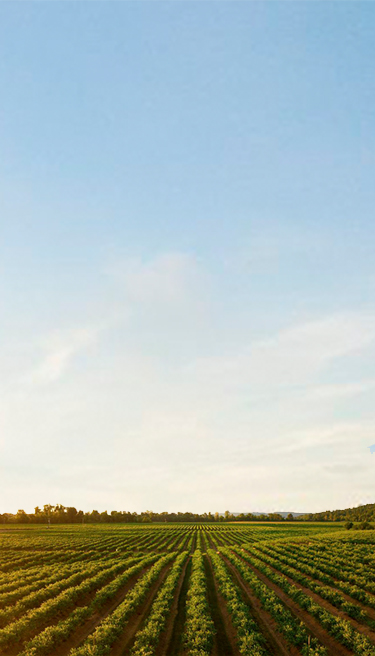
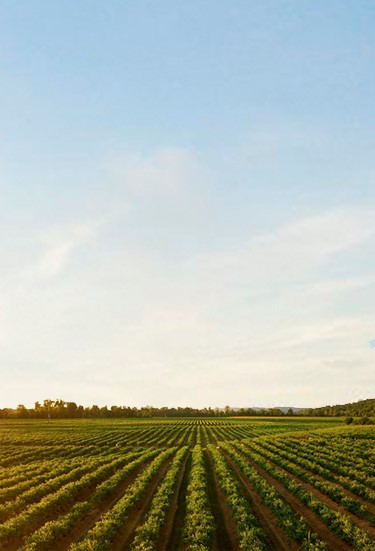
Modificado la flecha de ir Ariba/Abajo

diff --git a/css/style.css b/css/style.css
@@ -104,51 +104,98 @@ div {
     transform: scale(1.06);
 }
 
-/*--------------------------------------------------------------*/
-/*------------------ Botón de Ir Arriba/Abajo ------------------*/
+/*-------------------------------------------------------------------------------------------------------------------*/
+/*-------------------------------------------- Botón de Ir Arriba/Abajo ---------------------------------------------*/
+
 
 #boton_ir_arriba {
     display: none;
     position: fixed;
-    bottom: 20px;
     right: 30px;
+    bottom: 2rem;
     z-index: 99;
-    font-size: 16px;
-    border: none;
+    font-size: 2rem;
+    background-color: rgba(255,255,255,0.9);
+    border:  none;
     outline: none;
-    background-color: #830053;
-    color: white;
+    color: var(--color_principal);
     cursor: pointer;
-    padding: 15px;
+    padding: 7px 20px;
     border-radius: 50px;
 }
+
 #boton_abajo{
     position: fixed;
-    bottom: 20px;
-    right: 30px;
+    left: 45%;
+    bottom: 2rem;
     z-index: 99;
-    font-size: 16px;
+    font-size: 2rem;
+    background-color: var(--color_blanco);
     border: none;
     outline: none;
-    background-color: #830053;
-    color: white;
+    color: var(--color_principal);
     cursor: pointer;
-    padding: 15px;
+    padding: 7px 20px;
     border-radius: 50px;
+
 }
 
-/*--------------------------------------------------------------*/
-/*-------------------------------------------------------------------------------------------------------------------*/
-/*                                   HEADER                                            */
-/*-------------------------------------------------------------------------------------------------------------------*/
+.fa-angle-down{
+    animation: flecha-animada 2s ease-in-out infinite;
+}
 
+.fa-angle-up{
+    animation: flecha-animada 2s ease-in-out infinite;
+}
+
+/*-------------------------------------------------------------------------------*/
+/*-------------------------------ANIMACIÓN FLECHA-------------------------------*/
+
+@keyframes flecha-animada {
+    from{
+        transform: translateY(0);
+        opacity: 1;
+    }
+    50%{
+        transform: translateY(8px);
+        opacity: 0;
+    }
+    to{
+        transform: translateY(0);
+        opacity: 1;
+    }
+}
+
+/*----------------------------------------------------------------------------------------*/
+/*-------------------------------MEDIA QUERY - ARRIBA/ABAJO-------------------------------*/
+
+/*Esto es para hacer que el botón de ir abajo se quede en el
+        centro cuando el ancho de pantalla cambia*/
+
+@media (max-width: 450px)  {
+    #boton_abajo{
+        left: 39%;
+    }
+}
+
+@media (max-width: 500px)  {
+    #boton_abajo{
+        left: 42%;
+    }
+}
+
+@media (min-width: 48em){
+    #boton_abajo{
+        left: 48%;
+    }
+}
 
 
 /*-------------------------------------------------------------------------------------------------------------------*/
 /*                                      Elementos de la PRIMERA SECCIÓN                                              */
 /*-------------------------------------------------------------------------------------------------------------------*/
 .call_to_action {
-    background-image: url("../images/landing_page/landing_page1.jpg");
+    background: url("../images/landing_page/landing_page1.jpg") no-repeat top center;
     background-size: cover;
     height: 93vh;
 }
@@ -312,7 +359,7 @@ div {
 }
 .acerca_de_nosotros .fa-users{
     display: block !important;
-    }
+}
 
 /*-------------------------------------------------------------------------------------------------------------------*/
 /*                                       Estilo del FORMULARIO DE CONTACTO                                           */
@@ -473,7 +520,7 @@ textarea {
 /*------------------------RESPONSIVE--------------------------------*/
 
 @media (min-width: 48em) {
-    
+
     .popup-formulario{
         top:10px;
     }
@@ -635,7 +682,7 @@ textarea {
         display: block;
     }
     .acerca_de_nosotros .fa-users{
-    display: none !important;
+        display: none !important;
     }
     #footertext {
         font-size: 15px;
@@ -647,7 +694,7 @@ textarea {
         font-size: 2.5vh;
     }
 }
-    
+
 /*-------------------------------------------------------------------------------------------------------------------*/
 /*-------------------------------------------------------------------------------------------------------------------*/
 

diff --git a/index.php b/index.php
@@ -12,11 +12,11 @@ function customHead(){?>
 <!-------------------------------------------------------------------------------------------------------------------->
 
 <body id="body">
-<!------------------------------------- PRIMERA SECCIÓN DE LA PÁGINA --------------------------------------------->
+<!-------------------------------------------------------------------------------------------------------------------->
+<!----------------------------------------- PRIMERA SECCIÓN DE LA PÁGINA --------------------------------------------->
 <section class="call_to_action">
     <div id="contenido call_to_action">
         <h1 class="fistText morado">CONTROLA TUS CULTIVOS DESDE CUALQUIER SITIO</h1>
-        <br>
         <p class="secondText">¿Eres una agricultor con una explotación
             agraria y te gustaría ahorrarte tiempo
             y trabajo? </p>
@@ -24,10 +24,18 @@ function customHead(){?>
             damos la oportunidad de ver el estado de
             tus cultivos desde cualquier
             sitio. </p>
-        <br>
         <a class="boton" onclick="abrirFormulario()">CONTÁCTANOS</a>
+        <!---------------------------------------------------------------------------------------------------->
+        <!----------------------------------------BOTÓN IR ARRIBA/ABAJO--------------------------------------->
+
+        <a id="boton_abajo" href="#mas_informacion"><i class="fas fa-angle-down"></i></a>
+        <a id="boton_ir_arriba" href="#header"><i class="fas fa-angle-up"></i></a>
+
+        <!---------------------------------------------------------------------------------------------------->
+        <!---------------------------------------------------------------------------------------------------->
     </div>
-    <!--------------------------------FORMULARIO DE CONTACTO------------------------------->
+    <!--------------------------------------------------------------------------------------------------->
+    <!------------------------------------FORMULARIO DE CONTACTO----------------------------------------->
     <div class="popup-formulario" id="formulario_contacto">
         <div class="box" id="box-contacto">
             <div id="header-box">
@@ -60,7 +68,8 @@ function customHead(){?>
             </div>
         </div>
     </div>
-    <!----------------- MENSAJE DE CONFIRMACION ----------------->
+    <!--------------------------------------------------------------------------------------------------->
+    <!------------------------------------ MENSAJE DE CONFIRMACION -------------------------------------->
     <div class="popup-mensaje_confirmacion" id="mensaje_confirmacion">
         <div class="box_confirmacion" id="box-confirmacion">
             <div id="content-confirm-box">
@@ -71,81 +80,8 @@ function customHead(){?>
             </div>
         </div>
     </div>
-    <!------------------------------------------------------------>
-
-    <!---------------------SCRIPTS PARA EL FORMULARIO DE CONTACTO--------------------->
-    <script>
-        //-------------------FUNCIÓN ABRIR FORMULARIO---------------------//
-        function abrirFormulario() {
-            document.getElementById("formulario_contacto").style.display = "flex";
-            document.getElementById("body").style.overflow = "hidden"
-            document.getElementById("contenido call_to_action").style.filter = "blur(8px)"
-            document.getElementById("menu-btn").disabled = true;
-            document.getElementById("boton_abajo").style.display = "none";
-            document.documentElement.scrollTop = 0;
-        }
-        //-------------------FUNCIÓN CERRAR FORMULARIO--------------------//
-        function cerrarFormulario() {
-            document.getElementById("formulario_contacto").style.display = "none";
-            document.getElementById("body").style.overflow = "scroll";
-            document.getElementById("contenido call_to_action").style.filter = "none";
-            document.getElementById("boton_abajo").style.display = "flex";
-            document.getElementById("menu-btn").disabled = false;
-        }
-        //-----------------FUNCIÓN MOSTRAR CONFIRMACION-------------------//
-        function mostrarConfirmacion(){
-            document.getElementById("mensaje_confirmacion").style.display = "flex";
-            document.getElementById("body").style.overflow = "hidden"
-            document.getElementById("contenido call_to_action").style.filter = "blur(8px)"
-            document.getElementById("menu-btn").disabled = true;
-            cerrarFormulario();
-        }
-        //-----------------FUNCIÓN CERRAR CONFIRMACION-------------------//
-        function cerrarConfirmacion(){
-            document.getElementById("mensaje_confirmacion").style.display = "none";
-            document.getElementById("body").style.overflow = "scroll";
-            document.getElementById("contenido call_to_action").style.filter = "none";
-            document.getElementById("menu-btn").disabled = false;
-            document.getElementById("boton_abajo").style.display = "flex";
-        }
-        //-------------------FUNCIÓN LIMPIAR FORMULARIO--------------------//
-        function limpiarFormulario() {
-            document.getElementById("form_contact").reset();
-        }
-    </script>
-
-    <!------------------------------------------------------------------------------------->
-
-    <!--------------------------------BOTÓN IR ARRIBA------------------------------->
-    <a href="#mas_informacion">
-        <button id="boton_abajo">
-            <i class="fas fa-arrow-down"></i>
-        </button>
-    </a>
-
-    <a href="#header">
-        <button id="boton_ir_arriba" title="Go to top">
-            <i class="fas fa-arrow-up"></i>
-        </button>
-    </a>
-
-    <!---------------SCRIPTS PARA EL BOTON IR ARRIBA----------------->
-    <script>
-
-        var mybutton = document.getElementById("boton_ir_arriba");
-
-        window.onscroll = function() {scrollFunction()};
-
-        //-----------SCROLLFUNCTION--------------//
-        function scrollFunction() {
-            if (document.body.scrollTop > 20 || document.documentElement.scrollTop > 20) {
-                mybutton.style.display = "block";
-            } else {
-                mybutton.style.display = "none";
-            }
-        }
-    </script>
-
+    <!--------------------------------------------------------------------------------------------------->
+    <!--------------------------------------------------------------------------------------------------->
 </section>
 <!------------------------------------ FIN PRIMERA SECCIÓN DE LA PÁGINA ------------------------------------------>
 
@@ -278,8 +214,6 @@ function customHead(){?>
             </a>
         </div>
     </div>
-
-
 </section>
 <!------------------------------------- FIN CUARTA SECCIÓN DE LA PÁGINA ------------------------------------------>
 
@@ -288,7 +222,81 @@ function customHead(){?>
 <?php include_once './includes/footer.php';?>
 <!---------------------------------------- FIN FOOTER DE LA PÁGINA ----------------------------------------------->
 
+
+<!-------------------------------------------------------------------------------------------------------------------->
+<!------------------------------------------------------SCRIPTS------------------------------------------------------->
+<!-------------------------------------------------------------------------------------------------------------------->
+
+
+<!------------------------------------FORMULARIO DE CONTACTO------------------------------------>
+
+<script>
+    //-------------------FUNCIÓN ABRIR FORMULARIO---------------------//
+    function abrirFormulario() {
+        document.getElementById("formulario_contacto").style.display = "flex";
+        document.getElementById("body").style.overflow = "hidden"
+        document.getElementById("contenido call_to_action").style.filter = "blur(8px)"
+        document.getElementById("menu-btn").disabled = true;
+        document.getElementById("boton_abajo").style.display = "none";
+        document.documentElement.scrollTop = 0;
+    }
+    //-------------------FUNCIÓN CERRAR FORMULARIO--------------------//
+    function cerrarFormulario() {
+        document.getElementById("formulario_contacto").style.display = "none";
+        document.getElementById("body").style.overflow = "scroll";
+        document.getElementById("contenido call_to_action").style.filter = "none";
+        document.getElementById("boton_abajo").style.display = "flex";
+        document.getElementById("menu-btn").disabled = false;
+    }
+    //-----------------FUNCIÓN MOSTRAR CONFIRMACION-------------------//
+    function mostrarConfirmacion(){
+        document.getElementById("mensaje_confirmacion").style.display = "flex";
+        document.getElementById("body").style.overflow = "hidden"
+        document.getElementById("contenido call_to_action").style.filter = "blur(8px)"
+        document.getElementById("menu-btn").disabled = true;
+        cerrarFormulario();
+    }
+    //-----------------FUNCIÓN CERRAR CONFIRMACION-------------------//
+    function cerrarConfirmacion(){
+        document.getElementById("mensaje_confirmacion").style.display = "none";
+        document.getElementById("body").style.overflow = "scroll";
+        document.getElementById("contenido call_to_action").style.filter = "none";
+        document.getElementById("menu-btn").disabled = false;
+        document.getElementById("boton_abajo").style.display = "flex";
+    }
+    //-------------------FUNCIÓN LIMPIAR FORMULARIO--------------------//
+    function limpiarFormulario() {
+        document.getElementById("form_contact").reset();
+    }
+</script>
+
+<!------------------------------------BOTON IR ARRIBA/ABAJO------------------------------------>
+
+<script>
+
+    var buttonUp = document.getElementById("boton_ir_arriba");
+    var buttonDown = document.getElementById("boton_abajo");
+
+    window.onscroll = function() {scrollFunction()};
+
+    //------------------------SCROLLFUNCTION-----------------------------//
+    function scrollFunction() {
+        if (document.body.scrollTop > 20 || document.documentElement.scrollTop > 20) {
+            buttonUp.style.display = "block";
+            buttonDown.style.display="none";
+
+        } else {
+            buttonUp.style.display = "none";
+            buttonDown.style.display="";
+        }
+    }
+</script>
+<!-------------------------------------------------------------------------------------------------------------------->
+<!-------------------------------------------------------------------------------------------------------------------->
+<!-------------------------------------------------------------------------------------------------------------------->
+
 </body>
+
 <!-------------------------------------------------------------------------------------------------------------------->
 <!--------------------------------------------- FIN BODY DE LA PÁGINA ------------------------------------------------>
 <!-------------------------------------------------------------------------------------------------------------------->
